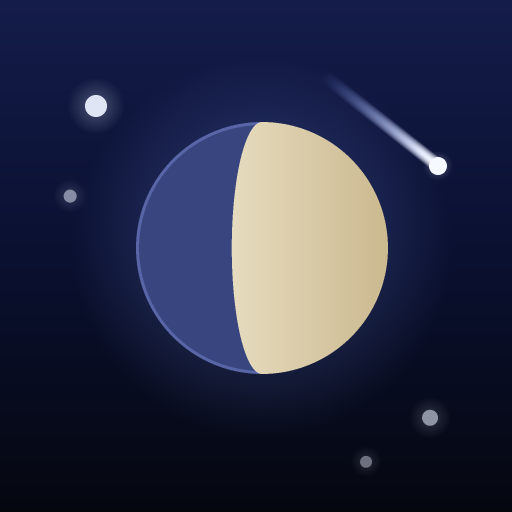
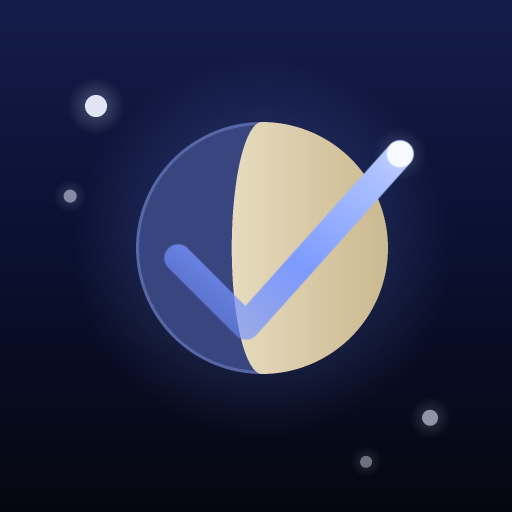
Fly the meteor across the moon, along a checkmark
The meteor was in the top-right corner, clear of everything, and it read as a
third tier of background sitting with the stars rather than as a second element.
Overlapping the main shape is what forces the eye to treat something as co-equal
with it, so the meteor now crosses the moon — and it flies the path of a
checkmark while it does.

Both halves of that carry weight. A meteor is what shootingStar() draws when you
tick something off, so it is this app's own way of saying "done"; and a meteor
tapers out at the tail, which is the thing that stops a blue stroke over a moon
reading as a checkmark lifted off any other to-do app. A checkmark is the shape
that survives the third of a second an icon gets.

Geometry: the vertex sits below the moon's centre so the long arm crosses the
lit lune, where blue on cream carries the contrast. The tail is the faint end
and it falls on the unlit half, which is the one place a low-contrast stroke
costs nothing. Stroke goes 15 to 29, which is 1.6 device pixels at the 29px an
iPhone home screen renders rather than 0.85.

The rasteriser reproduces the stroke's bounding-box gradient rather than
approximating it with arc length along the path. Those differ here: the check
doubles back, so its vertex sits lower on the gradient axis than its tail does.
Arc length would brighten the short arm and break the read of one continuous
streak.

tests/icons.test.js is new, and it exists because this is one picture drawn
[…]

Changed region(s): [[0.3125, 0.1562, 0.875, 0.6875]]

diff --git a/tests/icons.test.js b/tests/icons.test.js
@@ -1,0 +1,207 @@
+import test from 'node:test';
+import assert from 'node:assert/strict';
+import { readFileSync } from 'node:fs';
+
+/**
+ * The icon is drawn twice — once in assets/icon.svg, and once again by the
+ * software rasteriser in tools/make-icons.mjs that produces the PNGs the app
+ * actually ships. Nothing links them but care, and this repo has been caught by
+ * exactly that shape of thing more than once: the achievements catalogue, the
+ * service worker's precache list, the per-id CSS swatch rules. Every time, a
+ * hand-maintained second copy drifted from the first and no test noticed.
+ *
+ * So: read the numbers back out of both files and compare them. This does not
+ * check that the icon looks good — nothing here can. It checks that the picture
+ * the source of truth describes is the picture the build emits, which is the
+ * part that fails silently.
+ */
+
+const read = (path) => readFileSync(new URL(path, import.meta.url), 'utf8');
+const SVG = read('../assets/icon.svg');
+const RASTER = read('../tools/make-icons.mjs');
+
+/** Every `<circle>` in the SVG, in document order. */
+function circles() {
+  return [...SVG.matchAll(/<circle\b([^>]*)\/>/g)].map(([, attrs]) => {
+    const attr = (name) => {
+      const m = attrs.match(new RegExp(`${name}="([^"]*)"`));
+      return m ? m[1] : null;
+    };
+    return {
+      cx: Number(attr('cx')), cy: Number(attr('cy')), r: Number(attr('r')),
+      fill: attr('fill'), stroke: attr('stroke'),
+    };
+  });
+}
+
+/** A `const NAME = <number> / 512;` from the rasteriser, as SVG user units. */
+function units(name) {
+  const m = RASTER.match(new RegExp(`const ${name} = (-?[\\d.]+) / 512;`));
+  assert.ok(m, `tools/make-icons.mjs has no "const ${name} = n / 512"`);
+  return Number(m[1]);
+}
+
+/** A `const NAME = hex('#rrggbb');` from the rasteriser. */
+function color(name) {
+  const m = RASTER.match(new RegExp(`const ${name} = hex\\('(#[0-9a-f]{6})'\\)`));
+  assert.ok(m, `tools/make-icons.mjs has no "const ${name} = hex(...)"`);
+  return m[1];
+}
+
+test('the moon is in the same place in both renderers', () => {
+  const disc = circles().filter((c) => c.r === 126);
+  assert.equal(disc.length, 2, 'expected a filled disc and a rim stroke');
+  for (const c of disc) {
+    assert.equal(c.cx, units('MOON_X'));
+    assert.equal(c.cy, units('MOON_Y'));
+    assert.equal(c.r, units('MOON_R'));
+  }
+  assert.equal(disc[0].fill, color('MOON_UNLIT'));
+  assert.equal(disc[1].stroke, color('MOON_RIM'));
+});
+
+test('the lit lune is at the fill fraction the rasteriser uses', () => {
+  // The lune is a right semicircle joined to a terminator ellipse whose
+  // x-radius is r * |1 - 2f| — the geometry sky.js drawMoon() uses. Recover f
+  // from the path's second arc and check it against FILL.
+  const m = SVG.match(/d="M262 122 A126 126 0 0 1 262 374 A(\d+) 126 0 0 1 262 122 Z"/);
+  assert.ok(m, 'the lune path is not the shape this test knows how to read');
+  const fill = Number(RASTER.match(/const FILL = ([\d.]+);/)[1]);
+  assert.equal(Number(m[1]), Math.round(126 * Math.abs(1 - 2 * fill)));
+  assert.ok(fill > 0.5 && fill < 0.75, 'gibbous on purpose: a half moon reads as a shape, not a moon');
+});
+
+test('the meteor follows the same path in both renderers', () => {
+  const d = SVG.match(/<path d="((?:M|L)[^"]*)" stroke="url\(#meteor\)"/)[1];
+  const points = [...d.matchAll(/[ML](-?[\d.]+) (-?[\d.]+)/g)].map((p) => [Number(p[1]), Number(p[2])]);
+  const raster = RASTER.match(/const METEOR = (\[\[[\s\S]*?\]\]);/)[1];
+  const rasterPoints = [...raster.matchAll(/\[(-?[\d.]+) \/ 512, (-?[\d.]+) \/ 512\]/g)]
+    .map((p) => [Number(p[1]), Number(p[2])]);
+  assert.deepEqual(rasterPoints, points);
+
+  // It has to be a checkmark: down-right into a vertex, then up-right and past.
+  assert.equal(points.length, 3, 'a check is two segments');
+  const [start, vertex, tip] = points;
+  assert.ok(vertex[1] > start[1] && vertex[1] > tip[1], 'the vertex is the lowest point');
+  assert.ok(start[0] < vertex[0] && vertex[0] < tip[0], 'it travels left to right throughout');
+  assert.ok(tip[1] < start[1], 'the long arm ends above where the short arm began');
+});
+
+test('the meteor crosses the moon, which is what makes it a second subject', () => {
+  // The draft this replaced sat clear of the moon up in the corner and read as
+  // scenery — a third tier of background with the stars. Overlap is the whole
+  // mechanism, so it is the thing worth asserting.
+  const cx = units('MOON_X');
+  const cy = units('MOON_Y');
+  const r = units('MOON_R');
+  const d = SVG.match(/<path d="((?:M|L)[^"]*)" stroke="url\(#meteor\)"/)[1];
+  const points = [...d.matchAll(/[ML](-?[\d.]+) (-?[\d.]+)/g)].map((p) => [Number(p[1]), Number(p[2])]);
+
+  // Walk the polyline and count how much of it lies inside the disc.
+  let inside = 0;
+  let total = 0;
+  for (let i = 0; i < points.length - 1; i += 1) {
+    const [x1, y1] = points[i];
+    const [x2, y2] = points[i + 1];
+    const len = Math.hypot(x2 - x1, y2 - y1);
+    const steps = Math.ceil(len);
+    for (let s = 0; s < steps; s += 1) {
+      const t = (s + 0.5) / steps;
+      const x = x1 + (x2 - x1) * t;
+      const y = y1 + (y2 - y1) * t;
+      total += 1;
+      if (Math.hypot(x - cx, y - cy) <= r) inside += 1;
+    }
+  }
+  assert.ok(inside / total > 0.5, `only ${Math.round((inside / total) * 100)}% of the meteor is over the moon`);
+
+  // And it must break the outline somewhere, or it is contained decoration
+  // sitting on the moon rather than something crossing it. Only the head end is
+  // required to clear the disc: the tail starts inside on purpose and fades in,
+  // which is what a meteor does and what a checkmark drawn as a solid stroke
+  // cannot. Asserting both ends would be asserting a different picture.
+  const tip = points[points.length - 1];
+  assert.ok(Math.hypot(tip[0] - cx, tip[1] - cy) > r, 'the head has to clear the disc');
+});
+
+test('the meteor stroke survives being looked at small', () => {
+  const width = Number(SVG.match(/stroke="url\(#meteor\)"\s+stroke-width="(\d+)"/)[1]);
+  assert.equal(units('METEOR_W'), width / 2, 'the rasteriser stores the half-width');
+  // At the 29px an iPhone home screen actually renders, a stroke this wide is
+  // width/512*29 device pixels. Under one and it is a smudge.
+  assert.ok((width / 512) * 29 >= 1.5, `${((width / 512) * 29).toFixed(2)}px at 29px is too thin to read`);
+});
+
+test('the meteor head matches in both renderers', () => {
+  const head = circles().filter((c) => c.fill === '#f6f9ff');
+  assert.equal(head.length, 1);
+  const halo = circles().filter((c) => c.fill === '#dfe8ff');
+  assert.equal(halo.length, 1);
+
+  assert.equal(head[0].r, units('HEAD_R'));
+  assert.equal(halo[0].r, units('HALO_R'));
+  assert.equal(halo[0].cx, head[0].cx, 'the halo is concentric with the head');
+  assert.equal(halo[0].cy, head[0].cy);
+  assert.equal(head[0].fill, color('METEOR_HOT'));
+  assert.equal(halo[0].fill, color('METEOR_HALO'));
+
+  // The head sits on the tip of the stroke, so the round cap fills behind it.
+  const d = SVG.match(/<path d="((?:M|L)[^"]*)" stroke="url\(#meteor\)"/)[1];
+  const points = [...d.matchAll(/[ML](-?[\d.]+) (-?[\d.]+)/g)].map((p) => [Number(p[1]), Number(p[2])]);
+  assert.deepEqual([head[0].cx, head[0].cy], points[points.length - 1]);
+
+  const raster = RASTER.match(/const METEOR_HEAD = \[(-?[\d.]+) \/ 512, (-?[\d.]+) \/ 512\];/);
+  assert.deepEqual([Number(raster[1]), Number(raster[2])], [head[0].cx, head[0].cy]);
+});
+
+test('the stroke gradient matches in both renderers', () => {
+  const block = SVG.match(/<linearGradient id="meteor"[^>]*>([\s\S]*?)<\/linearGradient>/)[1];
+  const stops = [...block.matchAll(/offset="(\d+)%" stop-color="(#[0-9a-f]{6})" stop-opacity="([\d.]+)"/g)]
+    .map((m) => ({ at: Number(m[1]) / 100, color: m[2], opacity: Number(m[3]) }));
+  assert.equal(stops.length, 3);
+
+  assert.deepEqual(stops.map((s) => s.color), [color('METEOR_DIM'), color('METEOR_MID'), color('METEOR_LIT')]);
+  assert.equal(stops[1].at, Number(RASTER.match(/const GRAD_STOP = ([\d.]+);/)[1]));
+  assert.deepEqual(stops.map((s) => s.opacity), [0.5, 1, 1]);
+
+  // It runs bottom-left to top-right, the direction of travel. If this axis
+  // ever flips, the streak brightens at the tail instead of at the head and the
+  // rasteriser's meteorPaint() — which reproduces this axis rather than using
+  // arc length along the path — silently disagrees with the SVG.
+  const axis = SVG.match(/<linearGradient id="meteor" x1="(\d)" y1="(\d)" x2="(\d)" y2="(\d)"/).slice(1).map(Number);
+  assert.deepEqual(axis, [0, 1, 1, 0]);
+});
+
+test('the tail fades but never to nothing', () => {
+  // A stroke that reaches zero opacity vanishes into the unlit half of the moon
+  // and the short arm of the check goes missing, which is what the first draft
+  // did. The floor is what keeps both arms readable at 29px.
+  const block = SVG.match(/<linearGradient id="meteor"[^>]*>([\s\S]*?)<\/linearGradient>/)[1];
+  const first = block.match(/offset="0%"[^/]*stop-opacity="([\d.]+)"/);
+  assert.ok(Number(first[1]) >= 0.4, 'the tail is too faint to survive the unlit half');
+  assert.ok(Number(first[1]) < 1, 'a meteor with no fade is just a checkmark');
+});
+
+test('the icon carries no baked corner radius', () => {
+  // Every platform masks this itself; a pre-rounded asset gets rounded twice or
+  // shows dark corners. The rounding lives in the maskable variant only.
+  assert.ok(!/<rect[^>]*\brx=/.test(SVG), 'the background rect must stay square');
+  assert.match(SVG, /<rect width="512" height="512" fill="url\(#bg\)" \/>/);
+});
+
+test('the stars match in both renderers', () => {
+  const stars = circles().filter((c) => c.r <= 11 && c.fill === null);
+  assert.equal(stars.length, 4, 'four stars, and they inherit fill from their group');
+  const listed = [...RASTER.match(/const stars = \[([\s\S]*?)\];/)[1]
+    .matchAll(/\[([\d.]+), ([\d.]+), ([\d.]+), ([\d.]+)\]/g)]
+    .map((m) => [Number(m[1]), Number(m[2]), Number(m[3])]);
+  assert.equal(listed.length, stars.length);
+  for (const [i, star] of stars.entries()) {
+    const [sx, sy, sr] = listed[i];
+    assert.ok(Math.abs(sx * 512 - star.cx) < 0.5, `star ${i} x`);
+    assert.ok(Math.abs(sy * 512 - star.cy) < 0.5, `star ${i} y`);
+    assert.ok(Math.abs(sr * 512 - star.r) < 0.5, `star ${i} r`);
+    // Fat on purpose: r=4 on a 512 canvas is under half a pixel at 60x60.
+    assert.ok((star.r / 512) * 60 >= 0.6, `star ${i} disappears at 60px`);
+  }
+});

diff --git a/sw.js b/sw.js
@@ -4,7 +4,7 @@
    js/updates.js drives this from the page: it asks the registration to check
    on launch and on foreground, and messages SKIP_WAITING to take a new build. */
 
-const CACHE = 'nightcheck-v87';
+const CACHE = 'nightcheck-v88';
 
 const ASSETS = [
   './',

diff --git a/README.md b/README.md
@@ -805,6 +805,14 @@ dependency-free rasteriser:
 node tools/make-icons.mjs
 ```
 
+That is one picture drawn twice, which is the exact shape of thing this repo keeps getting
+caught by, so `tests/icons.test.js` reads the geometry back out of both files and compares
+it — the moon's centre and radius, the fill fraction, the meteor's path, its stroke width,
+the gradient stops and the four stars. It also holds the two decisions that are easy to
+undo by accident: the meteor has to cross the moon (clear of it, it reads as scenery
+rather than as a second subject), and the stroke has to stay wide enough to survive the
+29px an iPhone home screen actually renders.
+
 ## Layout
 
 About 23,000 lines: 13,300 of application JavaScript, 5,300 of tests, 3,400 of CSS, and
